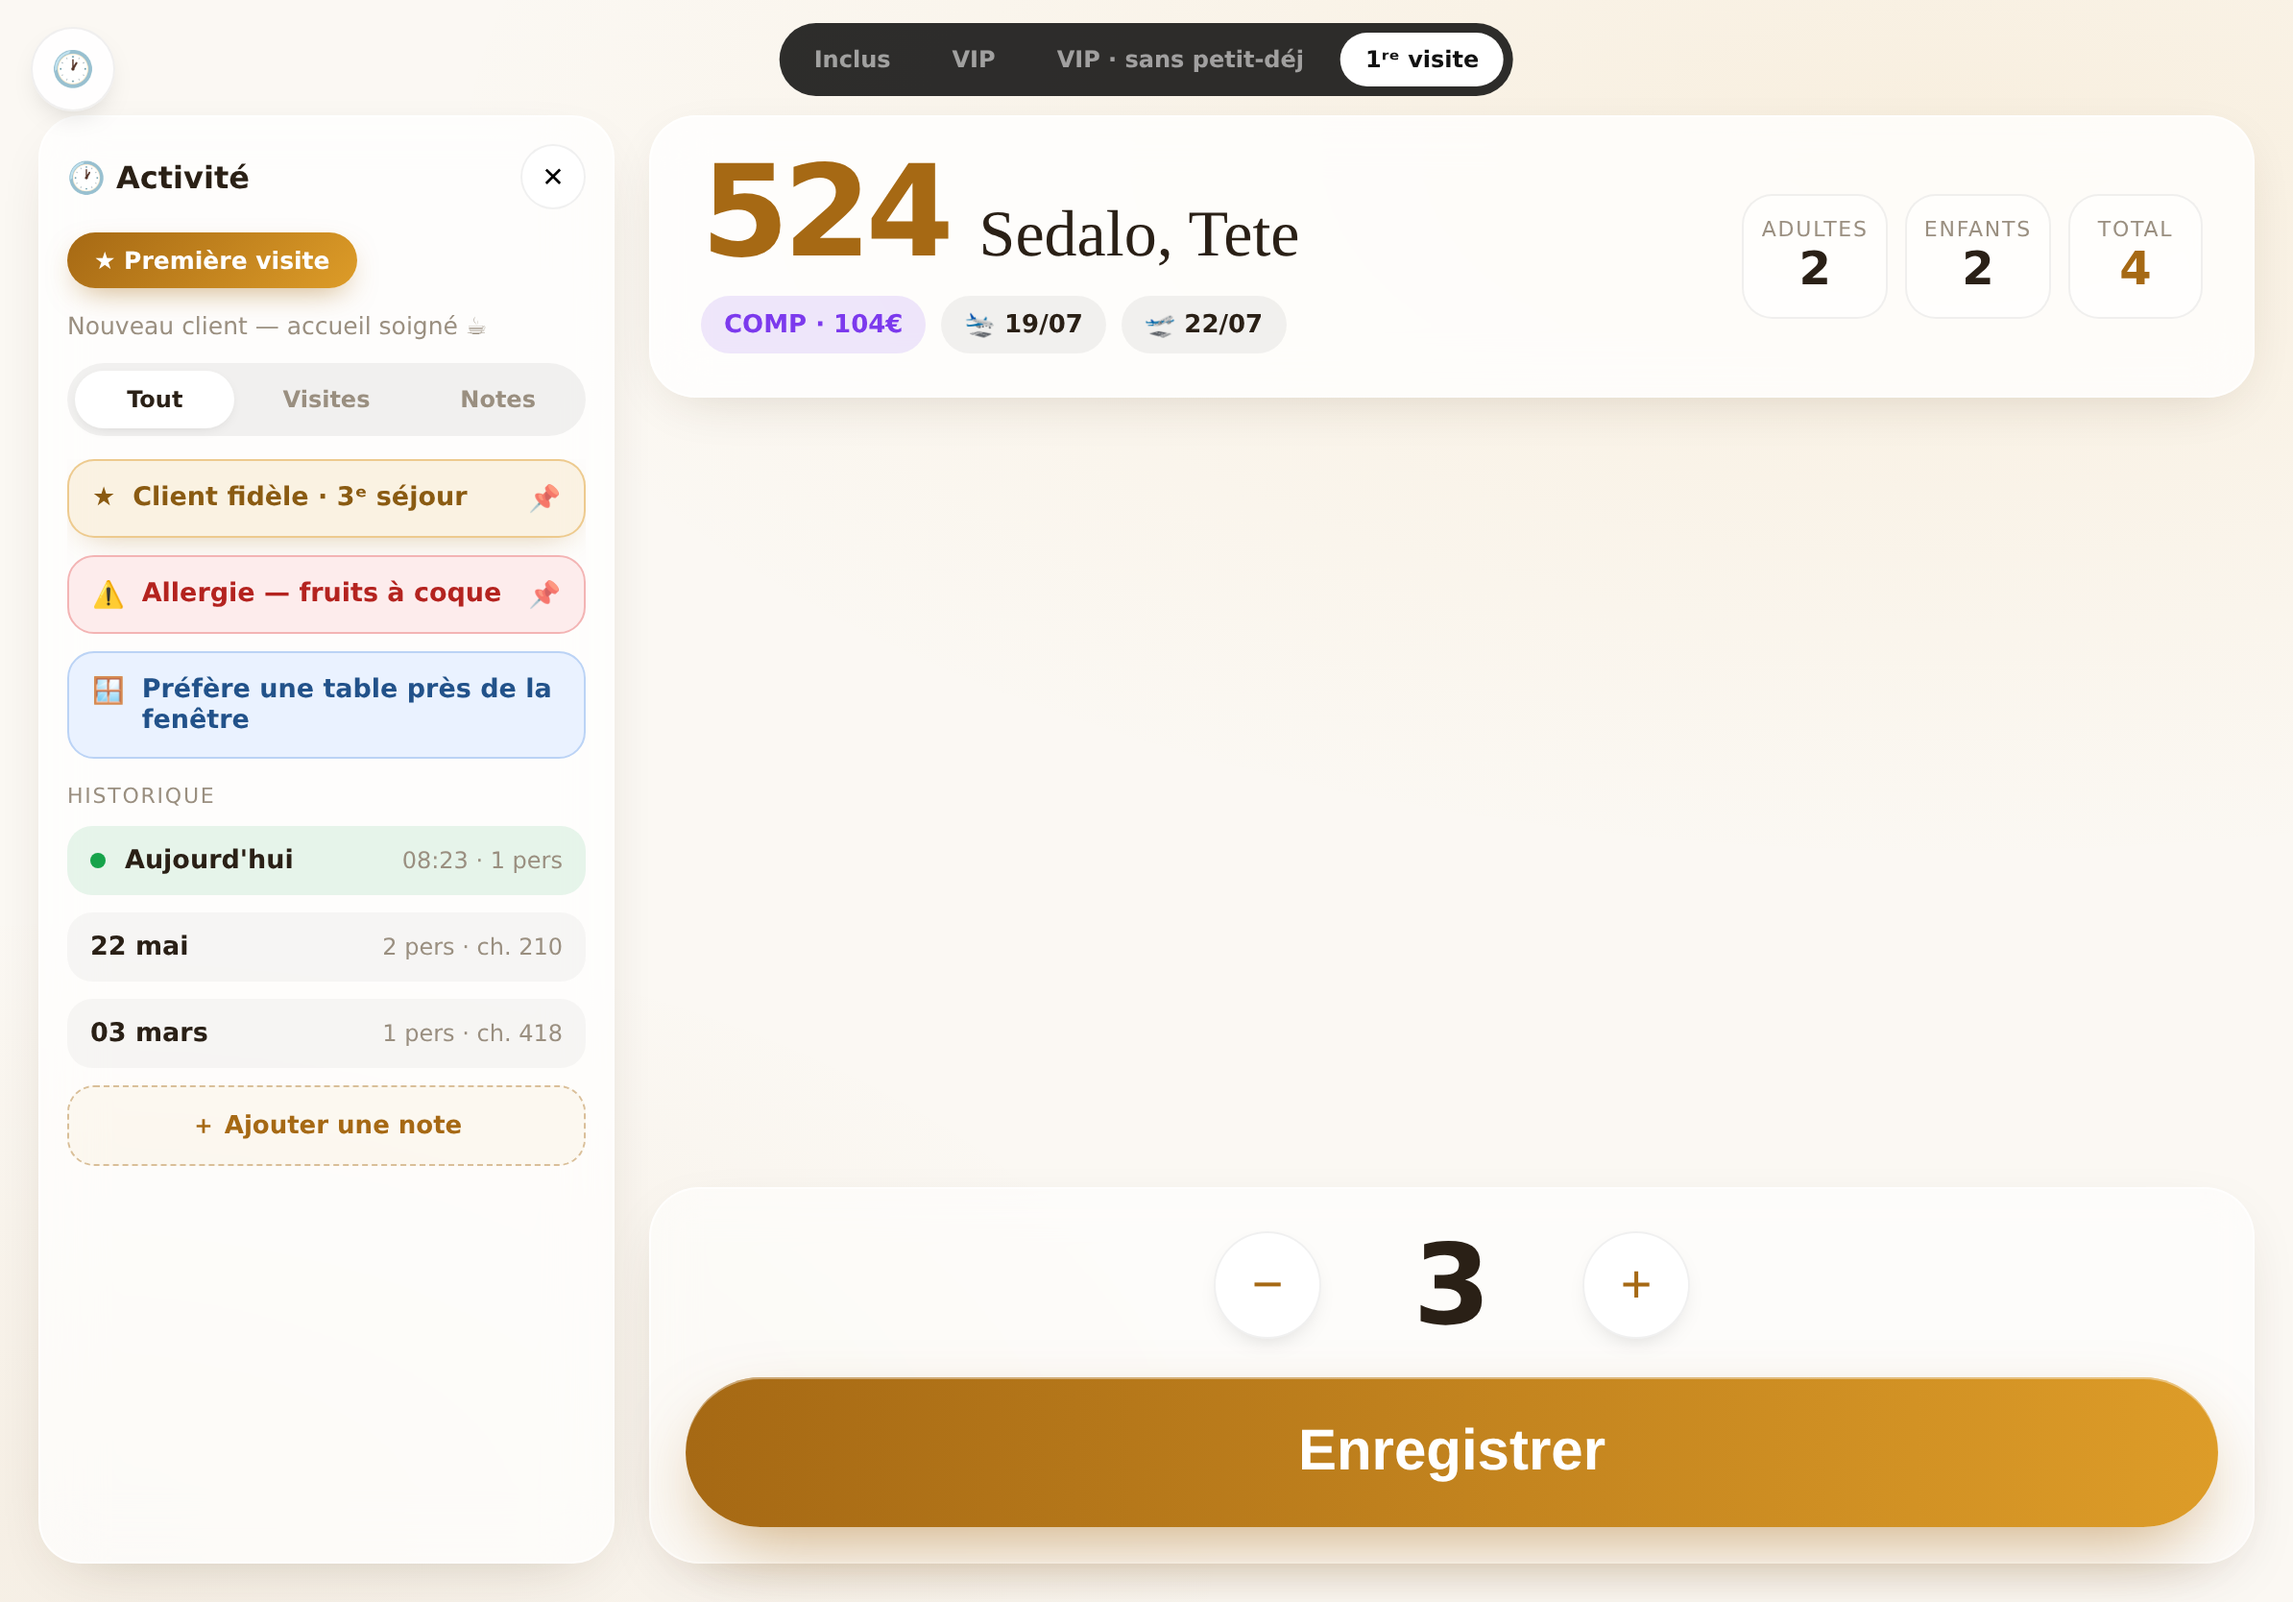
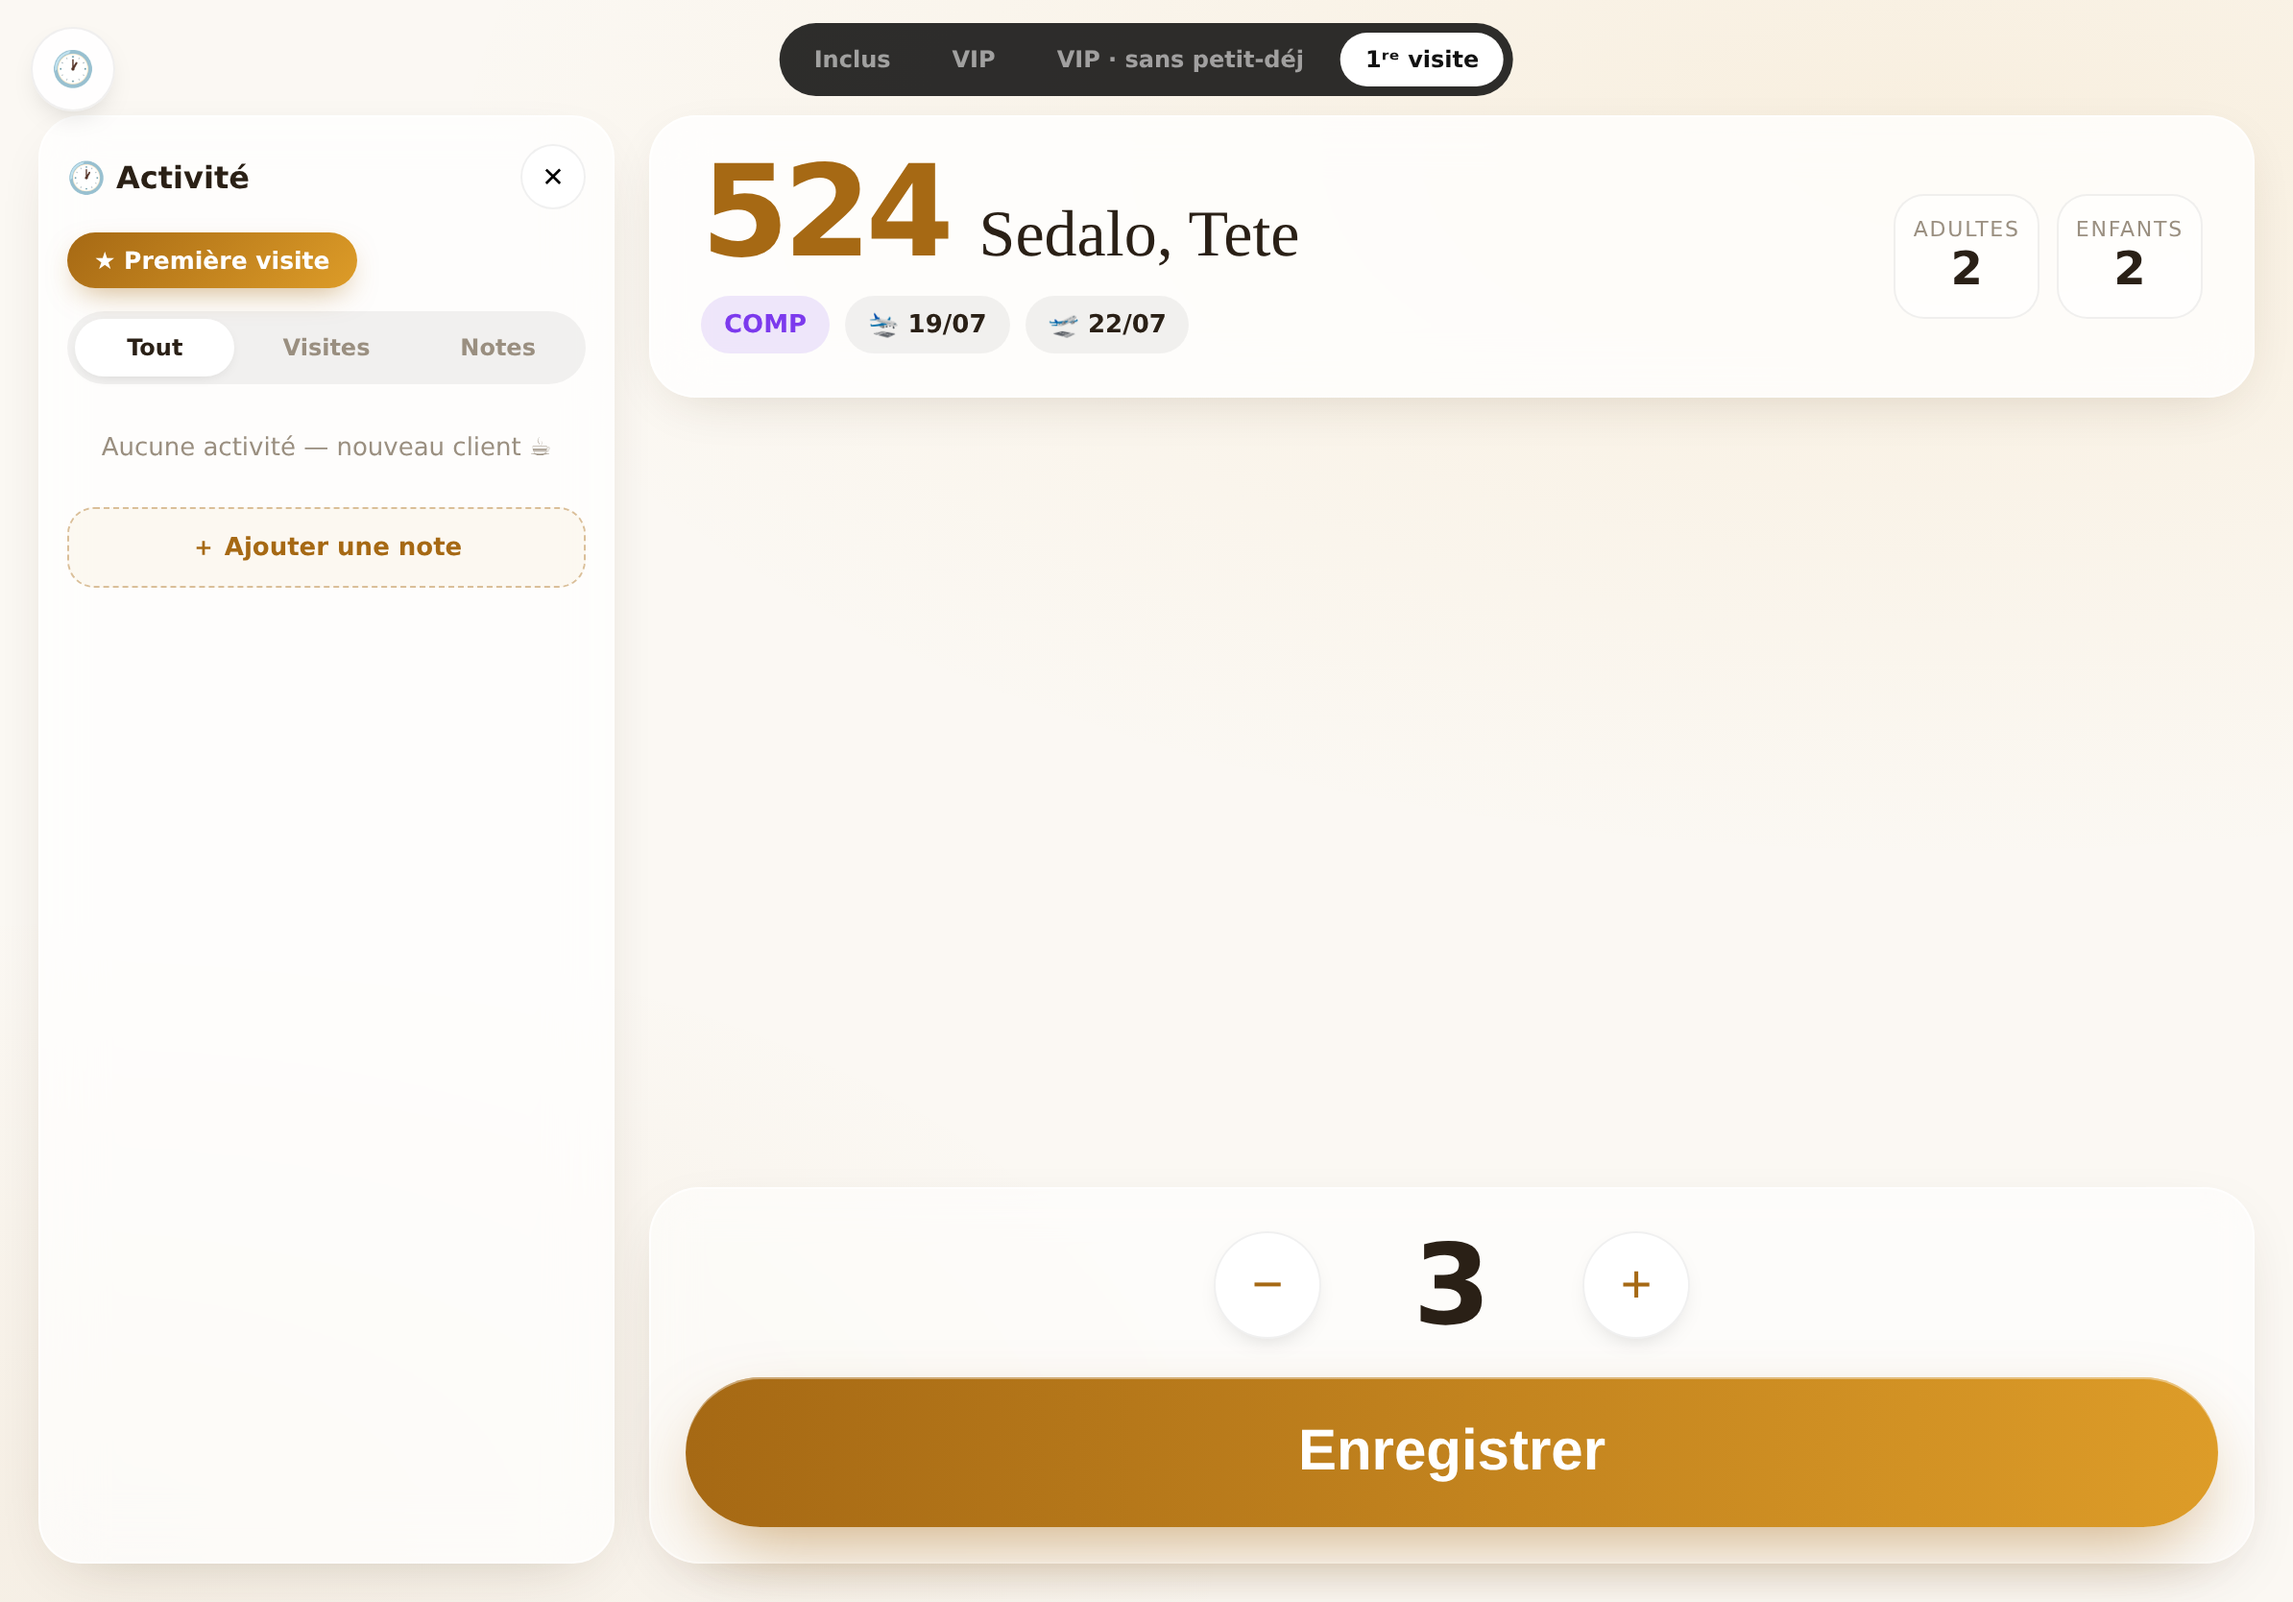
design: pin the action button (anti-regression) + first-visit/COMP/total corrections + design rules
- CTA fix (R1): counter + green button are PINNED to the bottom; only the middle content
  scrolls, so Enregistrer stays reachable at any zoom/short screen (was the original
  incident class). Proven at 560px tall.
- First visit now truly empty: no past visits, no loyalty note (a new guest can't be a
  returning one); removed the 'Nouveau client' line.
- COMP shows no price (dashboard-only); removed the Total chip (counter carries the total).
- Added mockups/DESIGN-RULES.md — 6 verifiable UI invariants (become Playwright/unit
  assertions when we build).

diff --git a/mockups/checkin-preview.html b/mockups/checkin-preview.html
@@ -11,7 +11,9 @@
 
   .stage{height:100vh;display:grid;grid-template-columns:300px 1fr;gap:18px;padding:60px 20px 20px;transition:.35s cubic-bezier(.2,.8,.2,1)}
   .stage.collapsed{grid-template-columns:0 1fr}
-  .main{display:flex;flex-direction:column;gap:16px;min-height:0}
+  .main{display:flex;flex-direction:column;gap:16px;min-height:0;height:100%}
+  /* content scrolls; the action box is PINNED so the CTA is always reachable at any zoom */
+  .scroll{flex:1;min-height:0;overflow-y:auto;display:flex;flex-direction:column;gap:16px;padding-bottom:2px}
 
   .idcard{border-radius:24px;padding:22px 26px;display:flex;gap:20px;align-items:center}
   .idcard.plain{background:rgba(255,255,255,.78);backdrop-filter:blur(14px);border:1px solid rgba(255,255,255,.6);box-shadow:0 8px 30px -12px rgba(60,40,10,.2)}
@@ -42,8 +44,7 @@
   .gpill .ic{width:40px;height:40px;border-radius:12px;display:grid;place-items:center;font-size:19px;background:linear-gradient(135deg,rgba(255,255,255,.95),rgba(255,255,255,.55));border:1px solid rgba(255,255,255,.85)}
   .gpill.active{background:rgba(42,32,22,.92);color:#fff} .gpill.active .ic{background:linear-gradient(135deg,var(--gold),var(--gold-light))}
 
-  .spacer{flex:1}
-  .actionbox{background:rgba(255,255,255,.55);backdrop-filter:blur(12px);border:1px solid rgba(255,255,255,.7);border-radius:26px;padding:16px 18px 18px;box-shadow:0 10px 34px -16px rgba(60,40,10,.28)}
+  .actionbox{flex:none;background:rgba(251,248,243,.86);backdrop-filter:blur(14px);border:1px solid rgba(255,255,255,.7);border-radius:26px;padding:16px 18px 18px;box-shadow:0 -6px 26px -14px rgba(60,40,10,.32)}
   .counter{display:flex;align-items:center;justify-content:center;gap:26px;margin-bottom:14px}
   .counter .n{font-size:58px;font-weight:900;font-variant-numeric:tabular-nums;min-width:84px;text-align:center}
   .counter button{width:56px;height:56px;border-radius:50%;border:1px solid var(--line);background:#fff;font-size:28px;color:var(--gold);cursor:pointer;box-shadow:0 5px 14px -8px rgba(0,0,0,.25)}
@@ -57,7 +58,9 @@
   .sidehead{display:flex;align-items:center;justify-content:space-between}
   .closebtn{width:34px;height:34px;border-radius:50%;border:1px solid var(--line);background:#fff;cursor:pointer;font-size:14px}
   .ftchip{display:none} body[data-first="1"] .ftchip{display:inline-flex;align-items:center;gap:7px;align-self:flex-start;background:linear-gradient(135deg,var(--gold),var(--gold-light));color:#fff;border-radius:999px;padding:7px 14px;font-weight:900;font-size:12.5px;box-shadow:0 6px 16px -6px rgba(166,105,20,.6)}
-  .ftmini{display:none} body[data-first="1"] .ftmini{display:block;color:var(--muted);font-size:12.5px}
+  /* First visit = empty history & no notes (a new guest can't be a returning one) */
+  body[data-first="1"] .list .note,body[data-first="1"] .list .visit,body[data-first="1"] .list .hh{display:none}
+  .emptyfirst{display:none} body[data-first="1"] .emptyfirst{display:block;color:var(--muted);font-size:13px;text-align:center;padding:14px 6px}
 
   .tabs{display:flex;gap:6px;background:rgba(0,0,0,.05);border-radius:999px;padding:4px}
   .tabs button{flex:1;border:0;background:transparent;font:800 12px/1 system-ui;color:var(--muted);padding:9px 6px;border-radius:999px;cursor:pointer}
@@ -97,7 +100,6 @@
     <div class="sidehead"><b style="font-size:16px">🕐 Activité</b>
       <button class="closebtn" onclick="document.getElementById('stage').classList.add('collapsed')">✕</button></div>
     <span class="ftchip">★ Première visite</span>
-    <span class="ftmini">Nouveau client — accueil soigné ☕</span>
 
     <div class="tabs">
       <button data-t="all" class="on">Tout</button>
@@ -119,25 +121,26 @@
       <div class="visit today"><span class="dot"></span><span class="d">Aujourd'hui</span><span class="m">08:23 · 1 pers</span></div>
       <div class="visit"><span class="d">22 mai</span><span class="m">2 pers · ch. 210</span></div>
       <div class="visit"><span class="d">03 mars</span><span class="m">1 pers · ch. 418</span></div>
+      <div class="emptyfirst">Aucune activité — nouveau client ☕</div>
       <div class="addnote">＋ Ajouter une note</div>
     </div>
   </div>
 
   <!-- MAIN -->
   <div class="main">
+   <div class="scroll">
     <div class="idcard vip" id="idcard">
       <div class="idmain">
         <div class="viptag" id="viptag">★ VIP ×4</div>
         <div class="idrow"><div class="room">524</div><div class="name serif">Sedalo, Tete</div></div>
         <div class="tags">
-          <span class="tag comp">COMP · 104€</span><span class="tag">🛬 19/07</span><span class="tag">🛫 22/07</span>
+          <span class="tag comp">COMP</span><span class="tag">🛬 19/07</span><span class="tag">🛫 22/07</span>
           <span class="tag warn" id="bkfwarn" style="display:none">☕✕ PETIT-DÉJ NON INCLUS</span>
         </div>
       </div>
       <div class="chips">
         <div class="chip"><div class="k">Adultes</div><div class="v">2</div></div>
         <div class="chip"><div class="k">Enfants</div><div class="v">2</div></div>
-        <div class="chip"><div class="k">Total</div><div class="v g">4</div></div>
       </div>
     </div>
     <div class="alert"><div class="bell">☕✕</div><div><div class="big">Petit-déjeuner NON inclus — à encaisser</div><div class="sub">Demandez au client : l'ajouter à la chambre, ou payer maintenant ?</div></div></div>
@@ -145,7 +148,7 @@
       <div class="gpill active"><span class="ic">🏨</span>Chambre</div><div class="gpill"><span class="ic">💳</span>Carte</div>
       <div class="gpill"><span class="ic">💵</span>Cash</div><div class="gpill"><span class="ic">🧑💼</span>Supervisor</div>
     </div></div>
-    <div class="spacer"></div>
+   </div><!-- /scroll -->
     <div class="actionbox">
       <div class="counter"><button>−</button><div class="n">3</div><button>+</button></div>
       <button class="enter">Enregistrer</button>

diff --git a/mockups/DESIGN-RULES.md b/mockups/DESIGN-RULES.md
@@ -1,0 +1,19 @@
+# Check-in screen — design rules (verify these when we build)
+
+State/layout invariants for the redesign. Each becomes a **Playwright/unit assertion**
+in the validation gate so a regression can't ship. (This is the "verification
+framework" for the redesign — the same idea as `VALIDATION.md`, applied to UI logic.)
+
+| # | Rule | Why | How we verify |
+|---|------|-----|---------------|
+| **R1** | The **Enregistrer** button (and counter) are **pinned to the bottom** and fully visible at any zoom / viewport height — only the middle content scrolls. | This is the original incident: on a landscape/zoomed tablet the CTA fell off-screen and staff couldn't check anyone in. | E2E: render at several heights (e.g. 560/700/834px) and assert the button's rect is inside the viewport. |
+| **R2** | **First visit ⇒ empty activity**: only the gold "Première visite" chip; no past visits, no loyalty note, no notes. A new guest cannot be a returning one. | Data consistency — a "3ᵉ séjour" tag on a first-timer is nonsense. | Unit: given `isFirstVisit`, the history list and notes render empty. |
+| **R3** | The card shows **COMP** only — **never the price**. Prices live on the dashboard. | Staff at the door shouldn't see monetary amounts. | Unit/E2E: card contains "COMP", never a `€` amount. |
+| **R4** | **Payment methods appear only when `needsPaymentChoice`** (VIP / off-list without breakfast). Otherwise hidden. | Breakfast is already covered for listed guests; asking to pay would be wrong. | Unit: payment block hidden unless `needsPaymentChoice(client)`. |
+| **R5** | **First visit ⇒ the button is gold** (not green) until everyone in the room has entered; the gold chip in the bar confirms first-visit. Matching is by **guest identity (name + personal info), not room** (rooms change). | Visual confirmation of a new guest; identity-based so it survives room changes. | Unit: button variant = gold when `isFirstVisit && remaining>0`. |
+| **R6** | Only the **red "PETIT-DÉJ NON INCLUS"** breakfast signal ever shows; the "inclus" tag is never rendered (implied by being on the list). | Less noise; the only actionable breakfast state is "not included". | Unit: no "inclus" tag in the DOM; warn tag only when not included. |
+
+Notes taxonomy (for the notes-flow session): 🔴 Alerte · 🔵 Préférence · 🟡 Fidélité ·
+🎉 Événement · ⚪ Info — pinnable, color-filterable, matched to the guest.
+
+Reference mockup: `mockups/checkin-preview.html` (live preview published as an Artifact).
